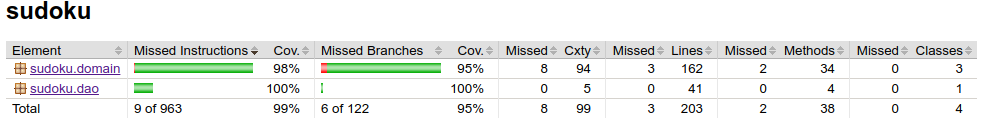
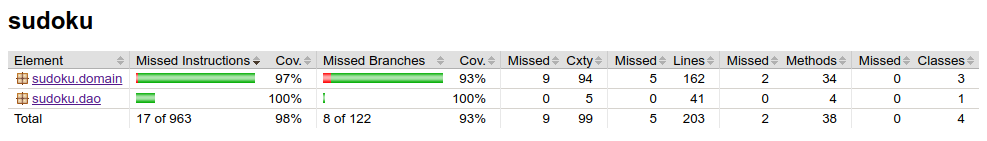
testikattavuus

Changed region(s): [[0.0, 0.3008, 1.0, 0.8722], [0.0, 0.0, 0.0912, 0.2105]]

diff --git a/documentation/testaus.md b/documentation/testaus.md
@@ -14,7 +14,7 @@ Automatisoitujen testeillä on testattu pakkauksen [sudoku.domain](https://githu
 
 ### Testauskattavuus
 
-Käyttöliittymää lukuunottamatta sovelluksen testauksen rivikattavuus on 99 % ja haarautumakattavuus on 95 %.
+Käyttöliittymää lukuunottamatta sovelluksen testauksen rivikattavuus on 98 % ja haarautumakattavuus on 93 %.
 
 <img src="https://github.com/sebazai/ot-harjoitustyo/blob/master/documentation/kuvat/testikattavuus.png">
 
